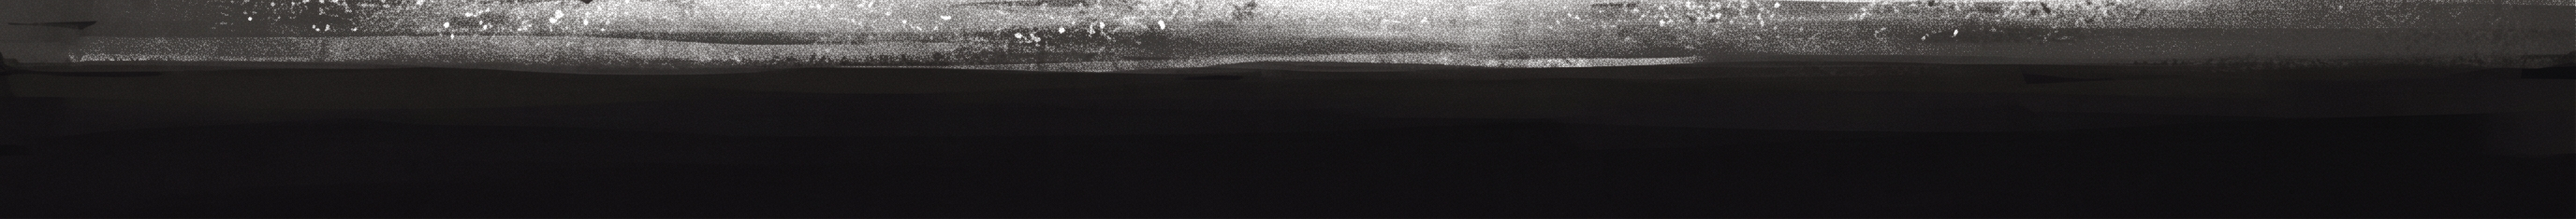
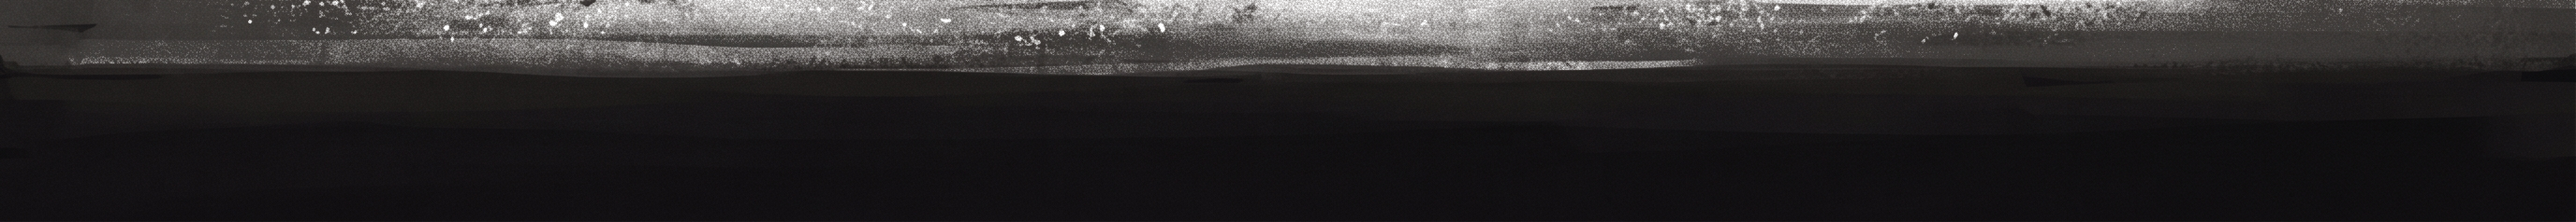
Ниць: перекладено компоновку шарів — винен був не арт
Міша показав, що в грі виглядає погано. Арт ні до чого, шари складав я.

1. Камера стояла посередині: підлога на півекрана, під нею порожнеча,
   стовпи зрізало на середині зросту. У профілі камера тепер стоїть вище
   гравця (CAMERA_LIFT_FLAT), підлога лежить у нижній чверті.

2. Усі шари стояли на одній лінії. У площинному світі глибини немає, тож
   без підйому далеких шарів над підлогою (lift +165/+72/0/-140) паралакс
   не читається як глибина. Це підроблений горизонт.

3. Джерело переднього плану мало стовпи по ОБОХ краях — при повторенні
   вони сходилися парою на кожному стику й перекривали пів екрана.
   Різак лишає один стовп із запасом порожнечі.
   Правило: у шарі, що повторюється, предмет має бути ОДИН і не на краю.

4. Мертві світилися світло-сірим: lightened() не залежав від сплющеності.
   Силует тепер задається явним кольором, а не похідним від палітри.

5. Уступи, ставши темними, зникли. Додано тонку світлу грань згори:
   на що можна стати, гравець мусить бачити.

Різак оновлено: обрізає прозорі поля, вміє лишати один предмет із шару.
floor_wide (фотографічна) не використовується — інший стиль.

Тести: 111.

Changed region(s): [[0.0312, 0.0, 1.0, 0.3574]]

diff --git a/tools/cut_layers.py b/tools/cut_layers.py
@@ -1,29 +1,33 @@
 """Ріже згенеровані кадри Ниці на шари з прозорим тлом.
 
-Тло в цих кадрах — рівний сірий, тому знімається порогом за різницею кольору.
-Заодно відділяє смугу стовпів від підлоги: підлога — суцільна по всій ширині,
-стовпи — розріджені, і це видно по частці непрозорих пікселів у рядку.
+Тло в цих кадрах — рівний сірий або чорний, тому знімається порогом за
+різницею кольору. Заодно відрізає суцільні смуги зверху й знизу: балку стелі
+й підлогу. Розпізнає їх за часткою непрозорих пікселів у рядку — підлога
+заповнює рядок цілком, стовпи лише на чверть.
+
+Запуск:  python tools/cut_layers.py
 """
 import os
 from collections import Counter
 from PIL import Image, ImageChops
 
-SRC = r"F:\Tryzna\art_src"
-OUT = r"F:\Tryzna\game\art\nyts"
-os.makedirs(OUT, exist_ok=True)
+ROOT = os.path.dirname(os.path.dirname(os.path.abspath(__file__)))
+SRC = os.path.join(ROOT, "art_src", "approved")
+OUT = os.path.join(ROOT, "game", "art", "nyts")
 
-SOFT_LOW = 26    # нижче цієї різниці — тло
-SOFT_HIGH = 58   # вище — предмет; між ними мʼякий край
+SOFT_LOW = 24     # нижче цієї різниці — тло
+SOFT_HIGH = 56    # вище — предмет; між ними мʼякий край
+SOLID_ROW = 0.60  # частка непрозорого, за якою рядок вважається суцільним
 
 
-def detect_background(img: Image.Image) -> tuple:
-    """Найчастіший колір у верхній смузі — це тло."""
+def detect_background(img):
+    """Найчастіший колір у смузі 30-45% висоти — це тло."""
     w, h = img.size
-    band = img.crop((0, int(h * 0.30), w, int(h * 0.45))).resize((w // 8, 40))
+    band = img.crop((0, int(h * 0.30), w, int(h * 0.45))).resize((max(w // 8, 1), 40))
     return Counter(band.getdata()).most_common(1)[0][0]
 
 
-def key_out(img: Image.Image, bg: tuple) -> Image.Image:
+def key_out(img, bg):
     solid = Image.new("RGB", img.size, bg)
     diff = ImageChops.difference(img, solid).convert("L")
     table = [
@@ -37,27 +41,23 @@ def key_out(img: Image.Image, bg: tuple) -> Image.Image:
     return out
 
 
-def row_coverage(alpha: Image.Image) -> list:
-    """Частка непрозорих пікселів у кожному рядку."""
+def row_coverage(alpha):
     w, h = alpha.size
     small = alpha.resize((160, h))
     px = small.load()
     return [sum(1 for x in range(160) if px[x, y] > 100) / 160.0 for y in range(h)]
 
 
-def split_pillars_and_floor(rgba: Image.Image) -> tuple:
-    """Верх — балка стелі, середина — стовпи, низ — підлога.
-
-    Стовпи впізнаються за тим, що вони НЕ заповнюють рядок цілком.
-    """
+def trim_solid_bands(rgba):
+    """Знімає суцільні смуги зверху (балка) й знизу (підлога)."""
     cover = row_coverage(rgba.getchannel("A"))
     h = len(cover)
 
     top = 0
-    while top < h and cover[top] > 0.60:
+    while top < h and cover[top] > SOLID_ROW:
         top += 1
     bottom = h - 1
-    while bottom > top and cover[bottom] > 0.60:
+    while bottom > top and cover[bottom] > SOLID_ROW:
         bottom -= 1
 
     pillars = rgba.crop((0, top, rgba.width, bottom + 1))
@@ -65,37 +65,68 @@ def split_pillars_and_floor(rgba: Image.Image) -> tuple:
     return pillars, floor
 
 
-def coverage_of(rgba: Image.Image) -> float:
+def trim_empty_edges(rgba):
+    """Обрізає повністю прозорі поля, щоб масштаб у грі був передбачуваним."""
+    box = rgba.getchannel("A").getbbox()
+    return rgba.crop(box) if box else rgba
+
+
+def coverage_of(rgba):
     small = rgba.getchannel("A").resize((200, 120))
     px = small.load()
     hits = sum(1 for y in range(120) for x in range(200) if px[x, y] > 100)
     return hits / (200.0 * 120.0)
 
 
+# (файл-джерело, назва шару, чи зберігати відрізану підлогу)
 JOBS = [
-    ("Stone_bars_in_corridor_silhouette_202608291920.jpeg", "pillars_near", True),
-    ("Stone_bars_in_corridor_silhouette_202608291909.jpeg", "pillars_mid", False),
-    ("Stone_bars_in_corridor_silhouette_202608291914.jpeg", "pillars_front", False),
+    ("nyts_src_row.png", "pillars_row", False),
+    ("nyts_src_front.png", "pillars_front", False),
+    ("nyts_src_pillars_near.jpg", "pillars_near", True),
+    ("nyts_floor_v01.jpg", "floor_wide", False),
+    ("nyts_l1_glow_v01.jpg", "glow", False),
 ]
 
-for filename, name, keep_floor in JOBS:
-    path = os.path.join(SRC, filename)
-    if not os.path.exists(path):
-        print("немає:", filename)
-        continue
 
-    img = Image.open(path).convert("RGB")
-    bg = detect_background(img)
-    rgba = key_out(img, bg)
-    pillars, floor = split_pillars_and_floor(rgba)
+def main():
+    os.makedirs(OUT, exist_ok=True)
+    for filename, name, keep_floor in JOBS:
+        path = os.path.join(SRC, filename)
+        if not os.path.exists(path):
+            print("немає:", filename)
+            continue
 
-    pillars.save(os.path.join(OUT, name + ".png"))
-    print("%-16s тло=%s  розмір=%dx%d  заповнення=%.0f%%" % (
-        name, bg, pillars.width, pillars.height, coverage_of(pillars) * 100
-    ))
+        img = Image.open(path).convert("RGB")
+        bg = detect_background(img)
+        rgba = key_out(img, bg)
 
-    if keep_floor and floor.height > 40:
-        floor.save(os.path.join(OUT, "floor.png"))
-        print("%-16s розмір=%dx%d" % ("floor", floor.width, floor.height))
+        if name in ("floor_wide", "glow"):
+            # Підлога й заграва суцільні за задумом — смуги з них не ріжемо.
+            result = trim_empty_edges(rgba)
+            result.save(os.path.join(OUT, name + ".png"))
+            print("%-14s тло=%s  %dx%d" % (name, bg, result.width, result.height))
+            continue
 
-print("\nготово ->", OUT)
+        pillars, floor = trim_solid_bands(rgba)
+        pillars = trim_empty_edges(pillars)
+
+        if name == "pillars_front":
+            # У джерелі стовпи стоять по ОБОХ краях. При повторенні вони
+            # сходяться парою на кожному стику й перекривають пів екрана.
+            # Лишаємо один стовп із запасом порожнечі праворуч.
+            pillars = pillars.crop((0, 0, int(pillars.width * 0.62), pillars.height))
+        pillars.save(os.path.join(OUT, name + ".png"))
+        print("%-14s тло=%s  %dx%d  заповнення=%.0f%%" % (
+            name, bg, pillars.width, pillars.height, coverage_of(pillars) * 100
+        ))
+
+        if keep_floor and floor.height > 40:
+            floor = trim_empty_edges(floor)
+            floor.save(os.path.join(OUT, "floor.png"))
+            print("%-14s %dx%d" % ("floor", floor.width, floor.height))
+
+    print("\nготово ->", OUT)
+
+
+if __name__ == "__main__":
+    main()

diff --git a/art_src/00-журнал.md b/art_src/00-журнал.md
@@ -353,3 +353,61 @@ painted stone. Do NOT re-render. Do NOT smooth the surfaces. Do NOT make it
 
 Уступи, лінія підлоги й сам гравець. Це геймплейні заглушки, вони стануть
 артом пізніше — і зараз навіть корисно, що вони видно окремо від фону.
+
+---
+
+## 2026-08-29 · Компоновка. **Винен був не арт**
+
+Міша показав кадр із гри й сказав, що виглядає погано. Він мав рацію, і арт
+тут ні до чого — я неправильно склав шари. Розбір помилок, бо всі вони
+повторяться на Плині.
+
+### 1. Камера стояла посередині
+
+Підлога опинялася на середині екрана, під нею зяяло півкадру порожнечі, а
+стовпи зрізало верхнім краєм на середині зросту.
+
+**У профілі камера мусить стояти вище гравця** (`CAMERA_LIFT_FLAT = 250`),
+щоб підлога лежала в нижній чверті. Тоді над головою є де рости колонаді.
+
+### 2. Усі шари стояли на одній лінії
+
+У площинному світі глибини немає за визначенням — отже всі стовпи впиралися
+основами в ту саму підлогу й читалися одним рядом, хоч і різного розміру.
+
+**Далекі шари треба піднімати над лінією підлоги** (`lift`: далекий +165,
+середній +72, ближній 0, передній −140). Це підроблений горизонт, і без нього
+паралакс не читається як глибина.
+
+### 3. Джерело переднього плану мало стовпи по ОБОХ краях
+
+При повторенні вони сходилися парою на кожному стику й перекривали пів
+екрана чорним. Виглядало як поламаний рендер.
+
+Різак тепер лишає **один стовп із запасом порожнечі** — і тоді при русі
+камери повз гравця зрідка пропливає одна колона. Саме те, що треба.
+
+**Правило на майбутнє: у шарі, що повторюється, предмет має бути ОДИН і не
+на краю.**
+
+### 4. Мертві світилися світло-сірими коробками
+
+`_ground.lightened(0.62)` не залежав від сплющеності, тож у Ниці, де все
+читається тінню, вони світили як ліхтарі.
+
+Заодно виявилося, що ланцюжок `_ground.lightened(...)` для пропсів давав
+непередбачуваний результат. **Силует тепер задається явним кольором**, а не
+похідним від палітри: так видно, що саме малюється.
+
+### 5. Уступи стали невидимі, коли їх затемнили
+
+Гравець мусить бачити, на що можна стати. Додано **тонку світлу грань
+згори** — читабельно, але не світла коробка.
+
+### Що ще не доведено
+
+Передній стовп може закрити гравця. У русі це радше перевага (глибина), але
+якщо заважатиме — зменшимо масштаб або відсунемо шар.
+
+`floor_wide.png` (фотографічна плита з попелом) **не використовується**: вона
+з іншого світу за стилем. Підлога взята з мальованого джерела.
